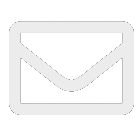
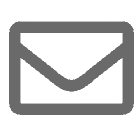
Corrigiendo estilos e iconos.

Changed region(s): [[0.0571, 0.1429, 0.9714, 0.8286]]

diff --git a/public/css/styles.css b/public/css/styles.css
@@ -28,8 +28,8 @@ body {
 /* ########################## Header ########################## */
 
 .header {
-    background-color: var(--bg-dark-color);
-    color: var(--white-color);
+    background-color: var(--white-color);
+    color: var(--bg-dark-color);
     padding: 2rem 0;
 }
 
@@ -40,7 +40,7 @@ body {
 }
 
 .header-divisor {
-    border-top: 1px solid var(--white-color);
+    border-top: 1px solid var(--main-color);
     margin: 1rem 0;
     width: 100%;
 }
@@ -50,9 +50,15 @@ body {
     font-size: 1.8rem;
 }
 
+.header-logo {
+    background-color: var(--white-color);
+    border-radius: 50%;
+}
+
 .header-logo img {
     height: auto;
-    width: 8rem;
+    display: block;
+    width: 12rem;
 }
 
 .header-name {
@@ -87,7 +93,7 @@ body {
 
 .header-action a {
     align-items: center;
-    color: var(--white-color);
+    color: var(--bg-dark-color);
     display: flex;
     flex-flow: column nowrap;
     font-size: 1.2rem;
